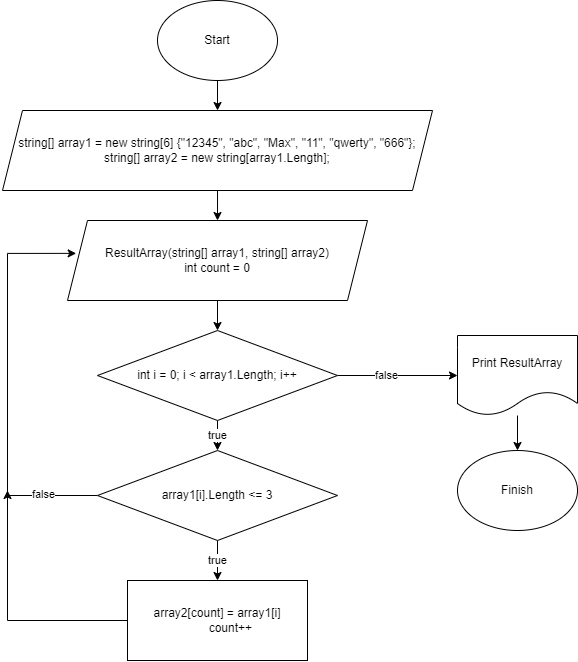
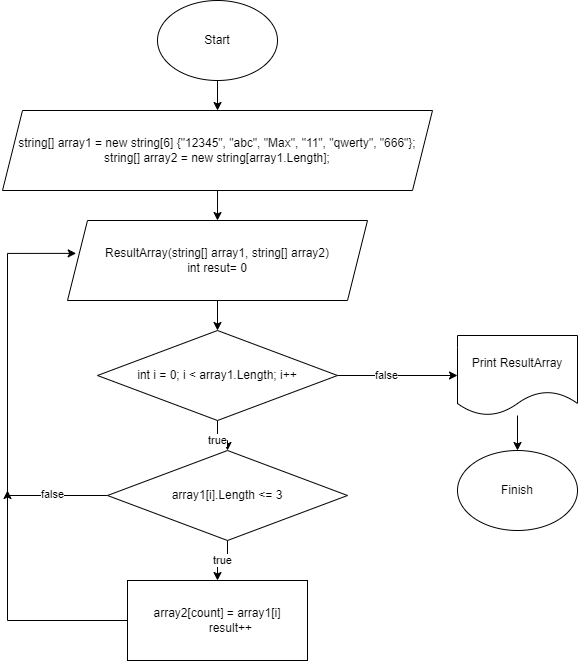
Добавk файл ReadMe с алгоритмом решения

diff --git a/ControlTask/ReadMe.md b/ControlTask/ReadMe.md
@@ -3,3 +3,8 @@
 либо задать на старте выполнения алгоритма. При решение не рекомендуется пользоваться коллекциями, 
 лучше обойтись исключительно массивам
 
+Алгоритм решения
+1. Задаем два массива, одинаковых размеров.
+2. Перебираем каждое значение первого массива на соответсвие условию: длина <= 3.
+3. Если условие выполняется, записываем значение в переменную result, если нет, идем на след значение.
+4. После переборки всех элементов, выводим на печать новый массив, удовлетворяющий условиям задачи
